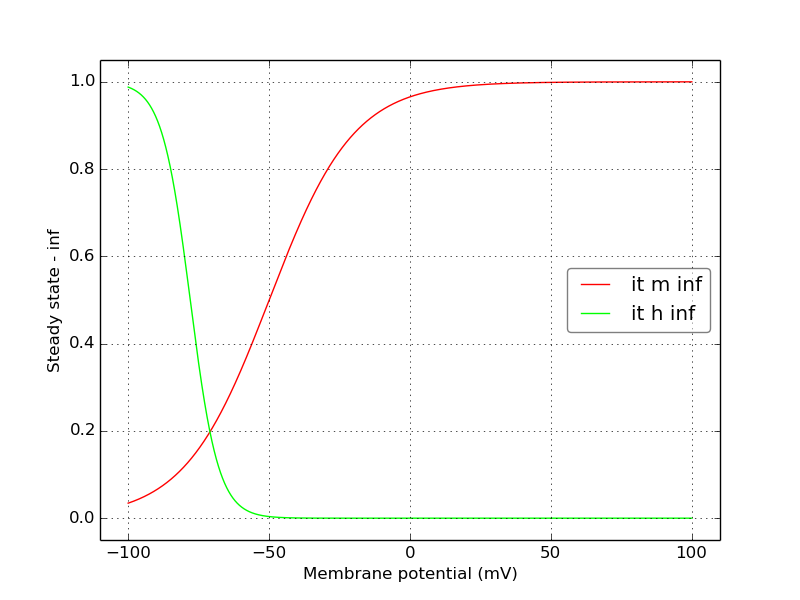
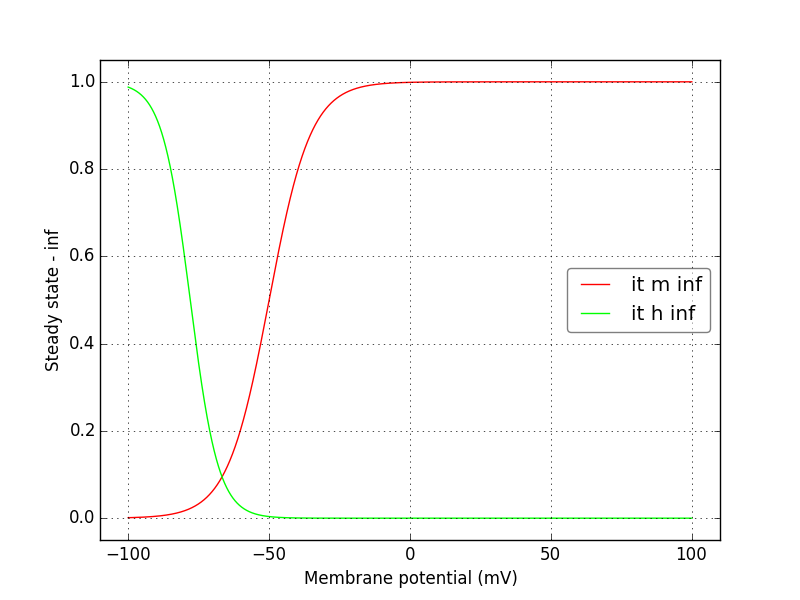
added ca channel + summary + comparison scripts

diff --git a/NeuroML2/channel_summary/ChannelInfo.html b/NeuroML2/channel_summary/ChannelInfo.html
@@ -1,25 +1,63 @@
+<?xml version="1.0"?>
 <html>
-    <title>Channel information</title>
-    
-    <body>
-        <p style="font-family:arial">Channel information at: T = 35.0 degC, E_rev = 0 mV, [Ca2+] = 0.00043 mM</p>
-        <table>
-            <tr>
+  <title>Channel information</title>
+  <body>
+    <p style="font-family:arial">Channel information at: T = 35.0 degC, E_rev = 0 mV, [Ca2+] = 0.00043 mM</p>
+    <table>
+      <tr>
         <td width="130px">
-            <p style="font-size:80%;font-family:arial"><b>it</b></p>
-            <p style="font-size:80%;font-family:arial"><a href="../it.channel.nml">it.channel.nml</a></p>
-            <p style="font-size:80%;background-color:#8FBC8F;"><b>Ion: ca</b></p>
-            <p style="font-size:80%;font-family:arial">g = gmax * m<sup>2</sup> * h </p><br/>
-            <p style="font-size:80%;font-family:arial">...</p><br/>
+          <p style="font-size:80%;font-family:arial">
+            <b>it</b>
+          </p>
+          <p style="font-size:80%;font-family:arial">
+            <a href="../it.channel.nml">it.channel.nml</a>
+          </p>
+          <p style="font-size:80%;background-color:#8FBC8F;">
+            <b>Ion: ca</b>
+          </p>
+          <p style="font-size:80%;font-family:arial">g = gmax * m<sup>2</sup> * h </p>
+          <br/>
+          <p style="font-size:80%;font-family:arial">...</p>
+          <br/>
         </td>
         <td>
-        <a href="it.inf.png"><img alt="it steady state" src="it.inf.png" height="300"/></a>
+          <a href="it.inf.png">
+            <img alt="it steady state" src="it.inf.png" height="300"/>
+          </a>
         </td>
         <td>
-        <a href="it.tau.png"><img alt="it time course" src="it.tau.png" height="300"/></a>
+          <a href="it.tau.png">
+            <img alt="it time course" src="it.tau.png" height="300"/>
+          </a>
         </td>
-        </tr>
-        </table>
-    </body>
-
+      </tr>
+      <tr>
+        <td width="130px">
+          <p style="font-size:80%;font-family:arial">
+            <b>ca</b>
+          </p>
+          <p style="font-size:80%;font-family:arial">
+            <a href="../it.channel.nml">ca.channel.nml</a>
+          </p>
+          <p style="font-size:80%;background-color:#8FBC8F;">
+            <b>Ion: ca</b>
+          </p>
+          <p style="font-size:80%;font-family:arial">g = gmax * m<sup>2</sup> * h </p>
+          <br/>
+          <p style="font-size:80%;font-family:arial">...</p>
+          <br/>
+        </td>
+        <td>
+          <a href="ca.inf.png">
+            <img alt="it steady state" src="ca.inf.png" height="300"/>
+          </a>
+        </td>
+        <td>
+          <a href="ca.tau.png">
+            <img alt="it time course" src="ca.tau.png" height="300"/>
+          </a>
+        </td>
+      </tr>
+    </table>
+  </body>
 </html>

diff --git a/NeuroML2/compare_nml2_mods.py b/NeuroML2/compare_nml2_mods.py
@@ -1,0 +1,78 @@
+import matplotlib.pyplot as pylab
+import os.path
+
+chans = ['ca', 'it']
+gates = ['m', 'h']
+
+for channel_id in chans:
+
+    vramp_lems_file  = '%s.rampV.lems.dat'%(channel_id)
+
+    ts = []
+    volts = []
+    for line in open(vramp_lems_file):
+        ts.append(float(line.split()[0])*1000)
+        volts.append(float(line.split()[1])*1000)
+    
+    fig = pylab.figure()
+    fig.canvas.set_window_title("Time Course(s) of activation variables of %s"%(channel_id))
+
+    pylab.xlabel('Membrane potential (V)')
+    pylab.ylabel('Time Course - tau (s)')
+    pylab.grid('on')
+
+    for gate in gates:
+        
+        tau_lems_file  = '%s.%s.tau.lems.dat'%(channel_id, gate)
+        
+        if os.path.isfile(tau_lems_file):
+            taus = []
+            for line in open(tau_lems_file):
+                ts.append(float(line.split()[0])*1000)
+                taus.append(float(line.split()[1])*1000)
+
+            pylab.plot(volts, taus, linestyle='-', linewidth=2, label="LEMS %s %s tau"%(channel_id, gate))
+
+            tau_mod_file  = '../NEURON/mod.files/%s.%s.tau.dat'%(channel_id, gate)
+            vs = []
+            taus = []
+            for line in open(tau_mod_file):
+                vs.append(float(line.split()[0]))
+                taus.append(float(line.split()[1]))
+
+            pylab.plot(vs, taus, '--x', label="Mod %s %s tau"%(channel_id, gate))
+            
+            
+    pylab.legend()
+    
+    
+    fig = pylab.figure()
+    fig.canvas.set_window_title("Steady state(s) of activation variables of %s"%(channel_id))
+
+    pylab.xlabel('Membrane potential (V)')
+    pylab.ylabel('Steady state (inf)')
+    pylab.grid('on')
+
+    for gate in gates:
+        
+        inf_lems_file  = '%s.%s.inf.lems.dat'%(channel_id, gate)
+        
+        if os.path.isfile(inf_lems_file):
+            infs = []
+            for line in open(inf_lems_file):
+                infs.append(float(line.split()[1]))
+
+            pylab.plot(volts, infs, linestyle='-', linewidth=2, label="LEMS %s %s inf"%(channel_id, gate))
+            
+            inf_mod_file  = '../NEURON/mod.files/%s.%s.inf.dat'%(channel_id, gate)
+            vs = []
+            infs = []
+            for line in open(inf_mod_file):
+                vs.append(float(line.split()[0]))
+                infs.append(float(line.split()[1]))
+
+            pylab.plot(vs, infs, '--x', label="Mod %s %s inf"%(channel_id, gate))
+            
+    pylab.legend()
+    
+pylab.show()

diff --git a/NeuroML2/channel_summary/README.md b/NeuroML2/channel_summary/README.md
@@ -1,13 +1,13 @@
 Channel information
 ===================
-    
+
 <p style="font-family:arial">Channel information at: T = 35.0 degC, E_rev = 0 mV, [Ca2+] = 0.00043 mM</p>
 
 <table>
     <tr>
 <td width="120px">
             <sup><b>it</b><br/>
-            <a href="../it.channel.nml">it.channel.nml</a><br/>
+            <a href="../it.channel.nml">ca.channel.nml</a><br/>
             <b>Ion: ca</b><br/>
             <i>g = gmax * m<sup>2</sup> * h </i><br/>
             ...</sup>
@@ -19,5 +19,19 @@ Channel information
 <a href="it.tau.png"><img alt="it time course" src="it.tau.png" height="220"/></a>
 </td>
 </tr>
+<tr>
+<td width="120px">
+        <sup><b>ca</b><br/>
+        <a href="../ca.channel.nml">ca.channel.nml</a><br/>
+        <b>Ion: ca</b><br/>
+        <i>g = gmax * m<sup>2</sup> * h </i><br/>
+        ...</sup>
+</td>
+<td>
+<a href="ca.inf.png"><img alt="ca steady state" src="ca.inf.png" height="220"/></a>
+</td>
+<td>
+<a href="ca.tau.png"><img alt="ca time course" src="ca.tau.png" height="220"/></a>
+</td>
+</tr>
 </table>
-
